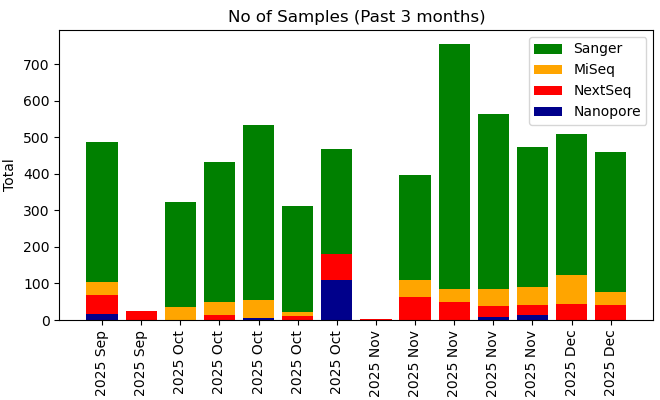
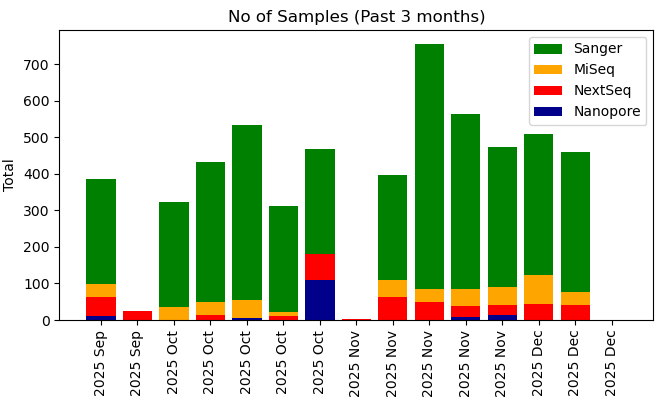
Your commit message here

diff --git a/krona/cgs.html b/krona/cgs.html
@@ -52,8 +52,8 @@ body {
   flex-direction: column;
 }
 </style>
-<H1>Genomics Facility Status: 07:00:14, 16/12/2025</H1>
-<marquee behavior="scroll" scrollamount="20" direction="left" bgcolor="lightgrey">AGAGTTTGATCCTGGCTCAGGATGAACGCTAGCGACAGGCTTAACACATGCAAGTCGAGGGGCAGCGGGGGTGAAGGCTTGCCTTCACCTGCCGGCGACCGGCGCACGGGTGAGTAACACGTATGCAACCTGCCCGTCTCAGGGGGATAACCGGGAGAAATCCCGCCTAATACCCAACGACACCTCCAAGGAGCATCCCTTGGAGGTCAAAGAAGCGATCCGGAGACGGATGGGCATGCGGCGCATTAGCT</marquee>
+<H1>Genomics Facility Status: 07:00:09, 17/12/2025</H1>
+<marquee behavior="scroll" scrollamount="20" direction="left" bgcolor="lightgrey">CTCTTGCTGGTGGCGCCATGTCTAAATTGTTTGGAGGCGGTCAAAAAGCCGCCTCCGGTGGCATTCAAGGTGATGTGCTTGCTACCGATAACAATACTGTAGGCATGGGTGATGCTGGTATTAAATCTGCCATTCAAGGCTCTAATGTTCCTAACCCTGATGAGGCCGTCCCTAGTAGATCGGAAGAGCGGTTCAGCAGGAATGCCGAGACCGATCTCGTATGCCGTCTTCTGCTTGAAAAAAAAATAGA</marquee>
 <TABLE BORDER=0><TR><TD><TABLE class="styled-table"><H3>GigaBases Sequenced</H3>
 <TR><TD><b>Platform</b></TD><TD><b>Week</b></TD><TD><b>Month</b></TD><TD><b>Year</b></TD><TD><b>Total</b></TD></TR><TR><TD>Illumina MiSeq</TD><TD>7.96</TD><TD>41.54</TD><TD>353.75</TD><TD>402.78</TD></TR><TR><TD>Illumina NextSeq</TD><TD>219.57</TD><TD>530.94</TD><TD>5544.87</TD><TD>5899.75</TD></TR><TR><TD>Nanopore PromethION</TD><TD>0.0</TD><TD>785.02</TD><TD>6132.71</TD><TD>9343.07</TD></TR><TR><TD>Sanger</TD><TD>0.0</TD><TD>0.0</TD><TD>0.02</TD><TD>0.04</TD></TR></TABLE></TD><TD><IMG SRC="fig1.png"><IMG SRC="fig2.png"></TD></TR><TR><TD><H3>No. Samples (No. Experiments)</H3>
-<TABLE class="styled-table"><TR><TD><b>Platform</b></TD><TD><b>Week</b></TD><TD><b>Month</b></TD><TD><b>Year</b></TD><TD><b>Total</b></TD></TR><TR><TD>Illumina MiSeq</TD><TD>36 (1)</TD><TD>209 (10)</TD><TD>1597 (65)</TD><TD>1819 (72)</TD></TR><TR><TD>Illumina NextSeq</TD><TD>41 (2)</TD><TD>157 (7)</TD><TD>1693 (69)</TD><TD>1806 (73)</TD></TR><TR><TD>Nanopore PromethION</TD><TD>0 (0)</TD><TD>21 (19)</TD><TD>461 (158)</TD><TD>775 (254)</TD></TR><TR><TD>Sanger</TD><TD>384 (384)</TD><TD>1824 (1824)</TD><TD>20832 (20832)</TD><TD>35687 (35687)</TD></TR></TABLE></TD><TD><IMG SRC="fig4.png"></TD></TR></TABLE></HTML>
+<TABLE class="styled-table"><TR><TD><b>Platform</b></TD><TD><b>Week</b></TD><TD><b>Month</b></TD><TD><b>Year</b></TD><TD><b>Total</b></TD></TR><TR><TD>Illumina MiSeq</TD><TD>36 (2)</TD><TD>209 (11)</TD><TD>1597 (66)</TD><TD>1819 (73)</TD></TR><TR><TD>Illumina NextSeq</TD><TD>41 (2)</TD><TD>157 (7)</TD><TD>1693 (69)</TD><TD>1806 (73)</TD></TR><TR><TD>Nanopore PromethION</TD><TD>0 (0)</TD><TD>21 (19)</TD><TD>461 (158)</TD><TD>775 (254)</TD></TR><TR><TD>Sanger</TD><TD>192 (192)</TD><TD>1632 (1632)</TD><TD>20832 (20832)</TD><TD>35687 (35687)</TD></TR></TABLE></TD><TD><IMG SRC="fig4.png"></TD></TR></TABLE></HTML>
